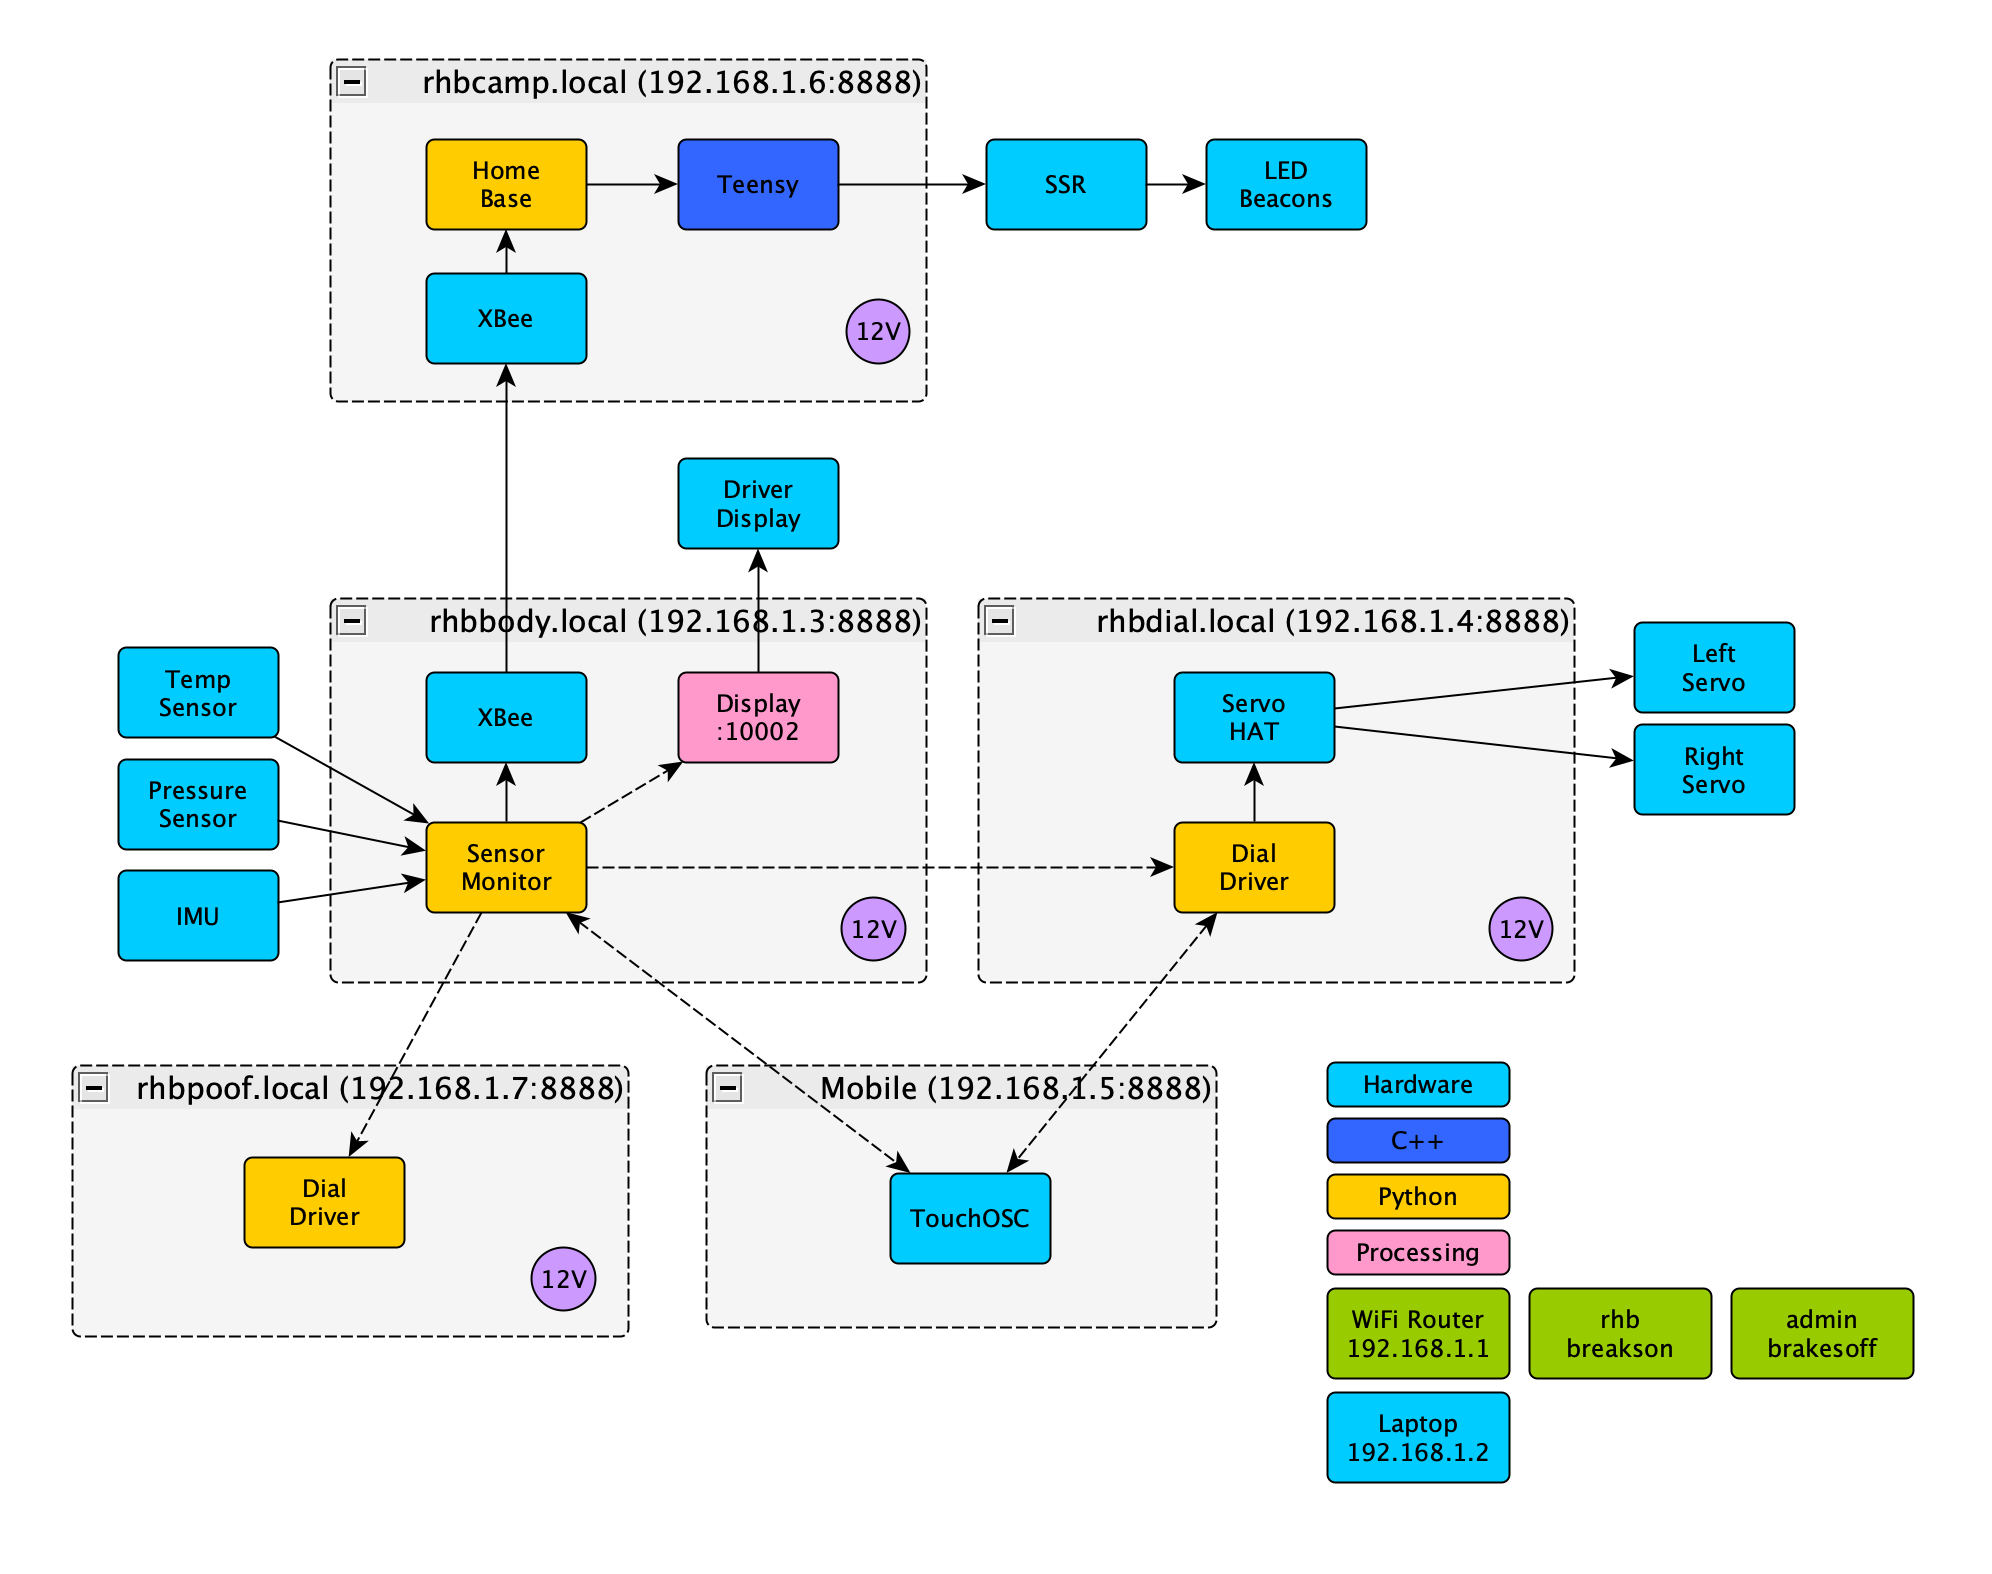
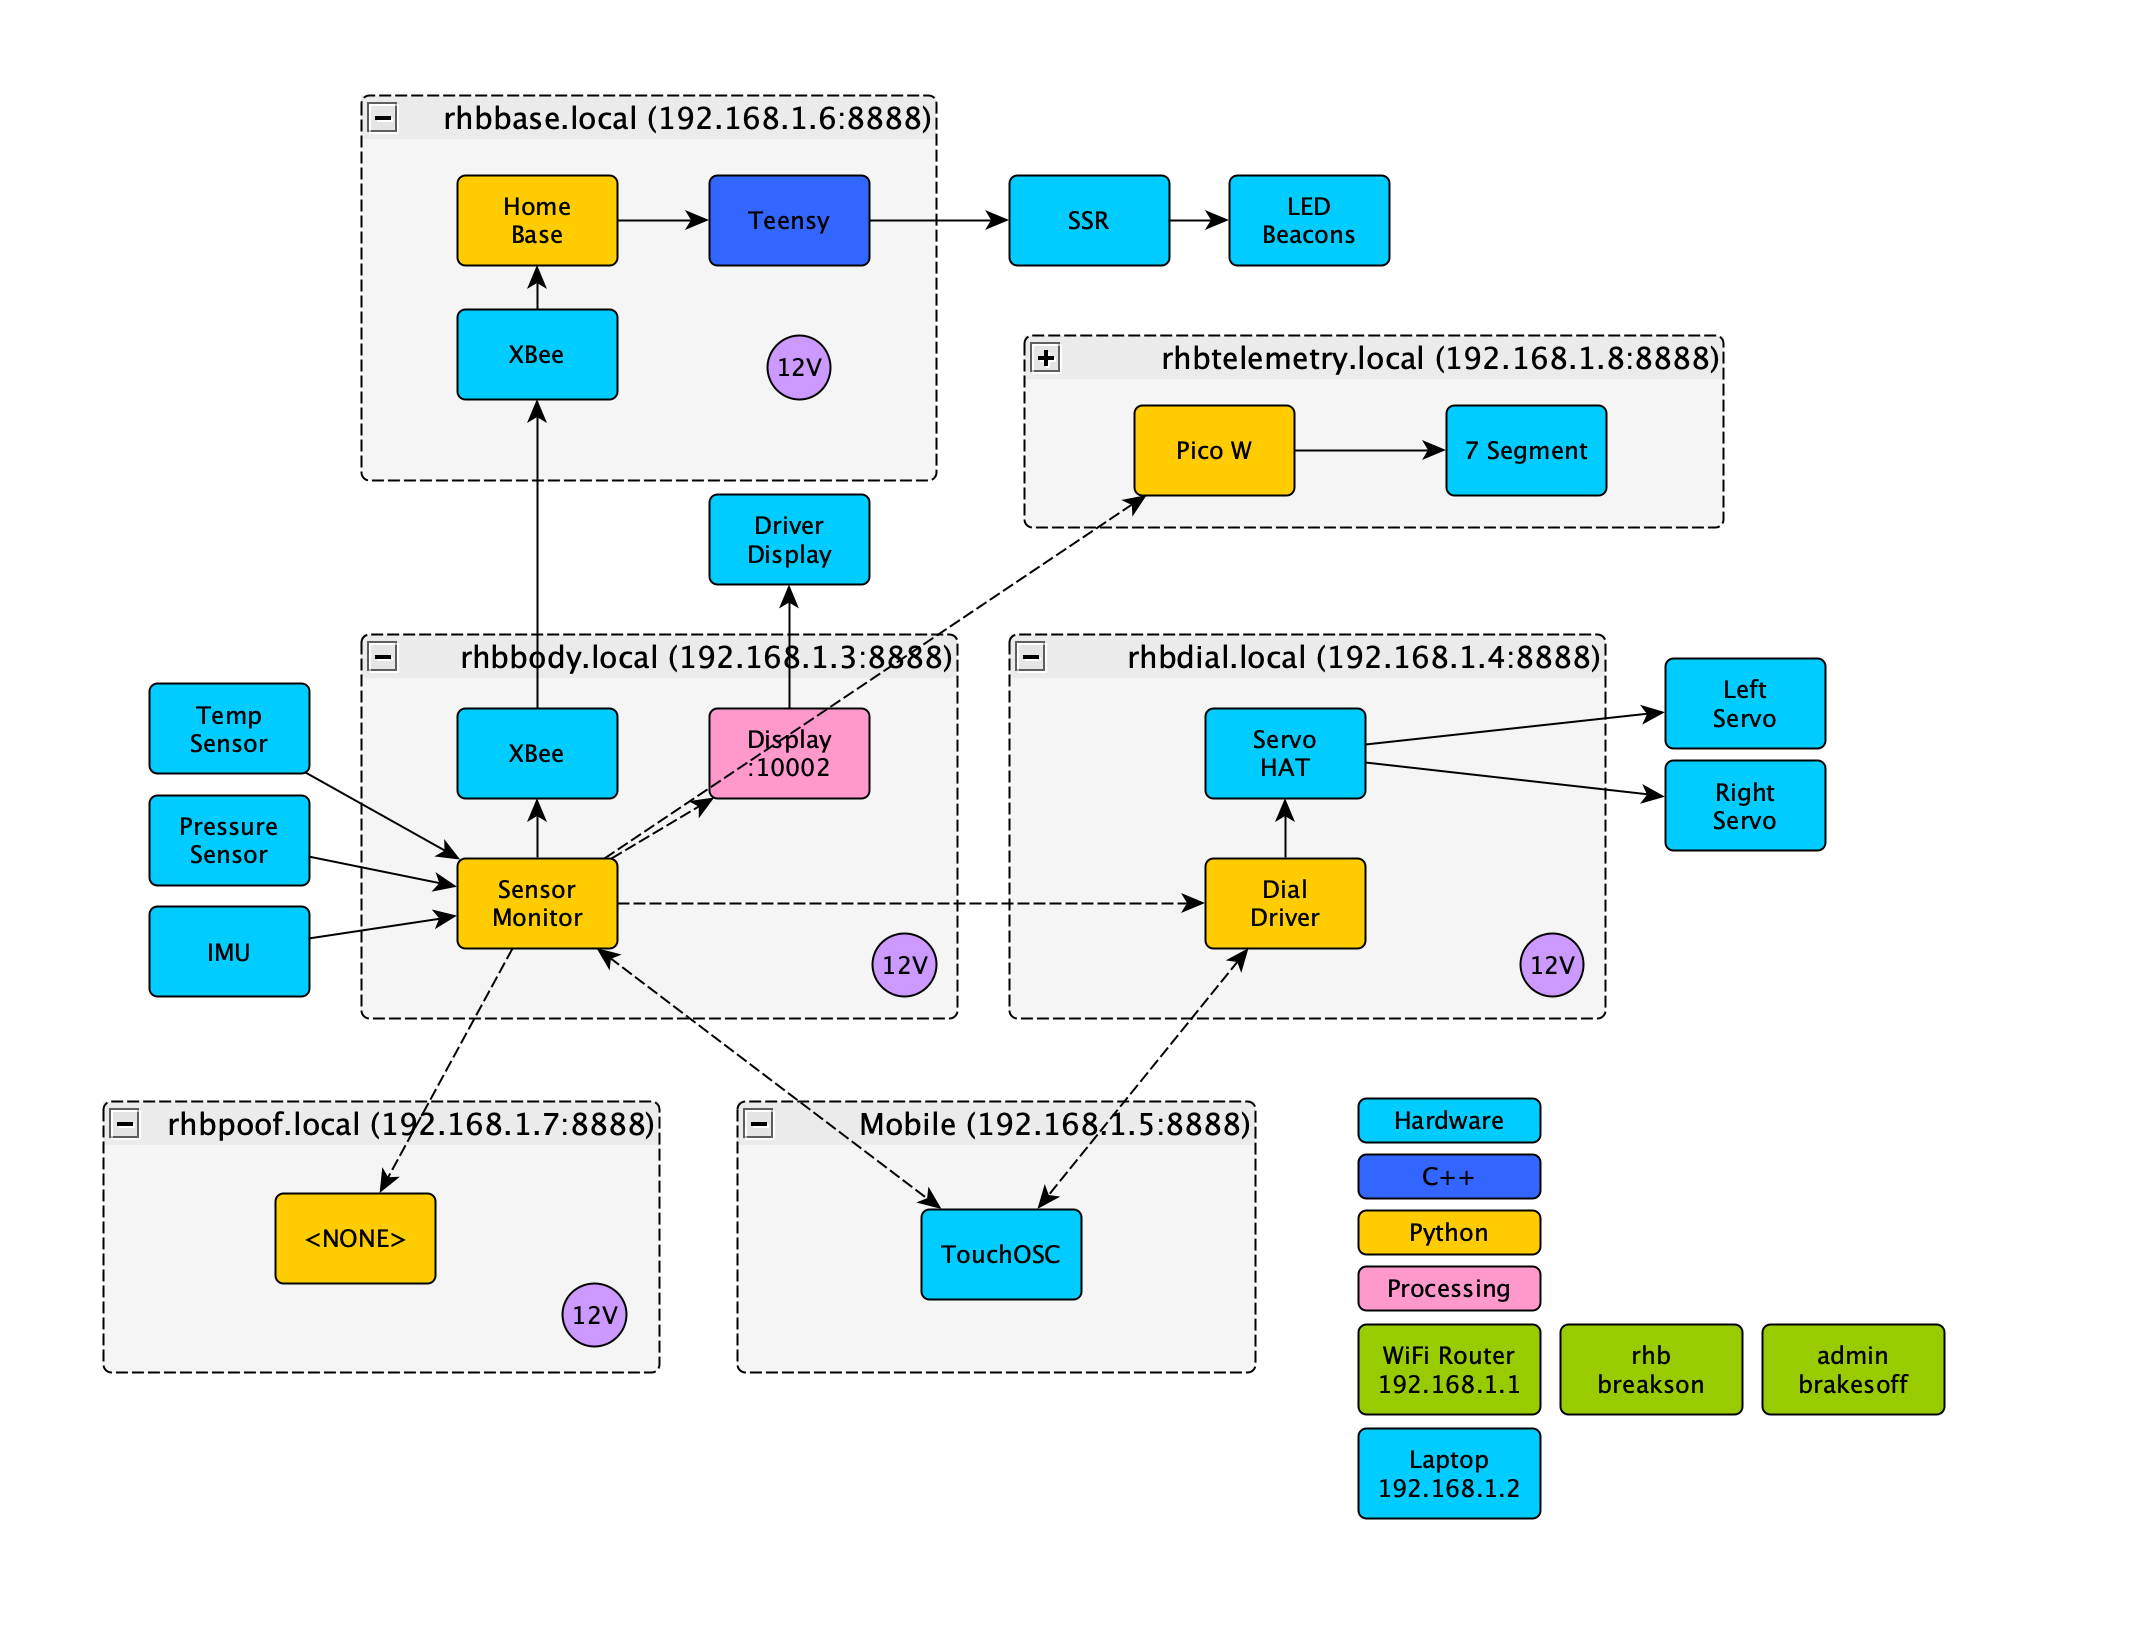
pressure monitoring updates

diff --git a/rhb-sensor-monitor.py b/rhb-sensor-monitor.py
@@ -57,11 +57,11 @@ logger.addHandler(FILE_HANDLER)
 gps_socket.connect()
 gps_socket.watch()
 
-TEMP_PERIOD = datetime.timedelta(seconds=5 * 60)
+TEMP_PERIOD = datetime.timedelta(seconds=60)
 
 poof_track = pt.PoofTrack()
 metrics = ml.MetricLogging(
-    datetime.timedelta(seconds=10 * 60),
+    datetime.timedelta(seconds=15 * 60),
     datetime.timedelta(seconds=5),
     "/home/pi/development/data",
 )
@@ -87,6 +87,8 @@ def broadcast(endpoint, value):
     display_client.send(built)
     mobile_client.send(built)
     pressure_client.send(built)
+    if "pressure" in endpoint or "temperature" in endpoint:
+        telemetry_1_client.send(built)
 
 
 def pi_temp() -> float:
@@ -127,12 +129,12 @@ def update_position(gps):
 @handle_exception
 def update_pressure():
     """ Broadcast the current accumulator pressure """
-    pressure = pressure_sensor.read_pressure()
+    pressure = poof_track.pressure_from_raw(pressure_sensor.read_pressure())
+    broadcast("/pressure", float(round(float(poof_track.last_pressure))))
     poof_track.add_observation(pressure)
     if metrics.pressure.empty or poof_track.poofing():
         piglow.red(64)
         piglow.show()
-        broadcast("/pressure", float(pressure))
         metrics.pressure = pd.concat(
             [
                 metrics.pressure,
@@ -141,7 +143,7 @@ def update_pressure():
                 ),
             ]
         )
-        broadcast("/poof_count", float(poof_track.poof_count))
+        #broadcast("/poof_count", float(poof_track.poof_count))
         #logger.info(f"Pressure = {pressure}")
     elif not poof_track.poofing():
         piglow.red(0)
@@ -152,8 +154,8 @@ def update_pressure():
 def update_imu():
     """ Broadcast the current IMU state """
     updated_imu_state = IMU_state()
-    heading = float(updated_imu_state["heading"]["tiltCompensatedHeading"])
-    if metrics.imu.empty or (abs(heading - metrics.imu["heading"].iloc[-1]) > 1):
+    heading = float(round(float(updated_imu_state["heading"]["tiltCompensatedHeading"])))
+    if metrics.imu.empty or (abs(heading - metrics.imu["heading"].iloc[-1]) > 1.5):
         broadcast("/imu", json.dumps(updated_imu_state))
         broadcast("/heading", heading)
         metrics.imu = pd.concat(
@@ -221,9 +223,9 @@ def broadcast_last():
             broadcast("/position/lon", float(metrics.position["lon"].iloc[-1]))
         if metrics.imu.shape[0] > 0:
             broadcast("/heading", float(metrics.imu["heading"].iloc[-1]))
-        broadcast("/pressure", float(poof_track.last_pressure))
+        broadcast("/pressure", float(round(float(poof_track.last_pressure))))
         if metrics.temp.shape[0] > 0:
-            broadcast("/temperature", float(metrics.temp["temp_f"].iloc[-1]))
+            broadcast("/temperature", float(int(metrics.temp["temp_f"].iloc[-1])))
             broadcast("/temperature_cpu", float(metrics.temp["temp_cpu"].iloc[-1]))
         if metrics.disk.shape[0] > 0:
             broadcast("/free_disk", float(metrics.disk["free"].iloc[-1]))
@@ -252,6 +254,15 @@ if __name__ == "__main__":
         help="The port the pressure osc server is listening on",
     )
     parser.add_argument(
+        "--telemetry_1_ip", default="192.168.1.8", help="The ip of the first telemetry server"
+    )
+    parser.add_argument(
+        "--telemetry_1_port",
+        type=int,
+        default=8888,
+        help="The port the first telemetry server is listening on",
+    )
+    parser.add_argument(
         "--mobile_ip", default="192.168.1.5", help="The ip of the mobile osc display"
     )
     parser.add_argument(
@@ -265,6 +276,7 @@ if __name__ == "__main__":
     display_client = udp_client.UDPClient(args.display_ip, args.display_port)
     pressure_client = udp_client.UDPClient(args.pressure_ip, args.pressure_port)
     mobile_client = udp_client.UDPClient(args.mobile_ip, args.mobile_port)
+    telemetry_1_client = udp_client.UDPClient(args.telemetry_1_ip, args.telemetry_1_port)
     watchdog_led = False
     hour = -1
     while True:

diff --git a/rhb_sensor_monitor/poof_track.py b/rhb_sensor_monitor/poof_track.py
@@ -19,7 +19,7 @@ import pandas as pd
 from collections import deque
 
 PRESSURE_QUEUE_LEN = 10000
-INSTANT_PRESSURE = 20
+INSTANT_PRESSURE_QUEUE_LEN = 20
 
 logger = logging.getLogger(__file__)
 
@@ -30,9 +30,14 @@ class PoofTrack:
         self.poof_count = 0
         self.poof_time = 0.0
         self.pressure_queue = deque(maxlen=PRESSURE_QUEUE_LEN)
-        self.instant_pressure_queue = deque(maxlen=PRESSURE_QUEUE_LEN)
+        self.instant_pressure_queue = deque(maxlen=INSTANT_PRESSURE_QUEUE_LEN)
         self.last_pressure = 0.0
         self.base_pressure = 0
+
+    @staticmethod
+    def pressure_from_raw(raw_pressure) -> float:
+        """Compute from raw"""
+        return max(float(raw_pressure) * 10.0 / 2000.0 + 10, 0.0)
 
     def add_observation(self, pressure):
         """ Add 'pressure' observation """
@@ -41,11 +46,12 @@ class PoofTrack:
         self.instant_pressure_queue.appendleft(pressure)
         if len(self.pressure_queue) >= PRESSURE_QUEUE_LEN:
             self.pressure_queue.pop()
+        if len(self.instant_pressure_queue) >= INSTANT_PRESSURE_QUEUE_LEN:
             self.instant_pressure_queue.pop()
         if self.base_pressure == 0 or pressure != self.base_pressure:
             if not self.poofing():
                 self.base_pressure = pd.Series(self.pressure_queue).median()
-        if (self.base_pressure - pd.Series(self.instant_pressure_queue).median()) > 50:
+        if (self.base_pressure - pd.Series(self.instant_pressure_queue).median()) > 3:
             if not self.poofing():
                 self.start()
         elif self.poofing():

diff --git a/rhb_sensor_monitor/pressure_sensor.py b/rhb_sensor_monitor/pressure_sensor.py
@@ -24,6 +24,7 @@ bus = smbus.SMBus(1)
 # 				Continuous conversion mode, 128SPS
 
 DATA = [0x84, 0x83]
+DATA = [0x84, 0xC3]
 bus.write_i2c_block_data(0x48, 0x01, DATA)
 time.sleep(0.5)
 
@@ -32,6 +33,7 @@ def read_pressure():
     """ Read pressure sensor from ADC """
     raw_data = bus.read_i2c_block_data(0x48, 0x00, 2)
     raw_adc = raw_data[0] * 256 + raw_data[1]
+    raw_adc_mod = raw_adc
     if raw_adc > 32767:
-        raw_adc -= 65535
-    return raw_adc
+        raw_adc_mod -= 65535
+    return raw_adc_mod

diff --git a/rhb_sensor_monitor/metric_logging.py b/rhb_sensor_monitor/metric_logging.py
@@ -50,7 +50,7 @@ class MetricLogging:
         """ Store off histories periodically """
         if datetime.datetime.now() - self.last_persist > self.persist_period:
             self.last_persist = datetime.datetime.now()
-            timestamp = self.last_persist.strftime("%Y%m%d_%H")
+            timestamp = self.last_persist.strftime("%Y%m%d_%H_%M")
             self.position.to_csv(
                 os.path.join(self.location, "positions_" + timestamp + ".csv"),
                 index=False,
